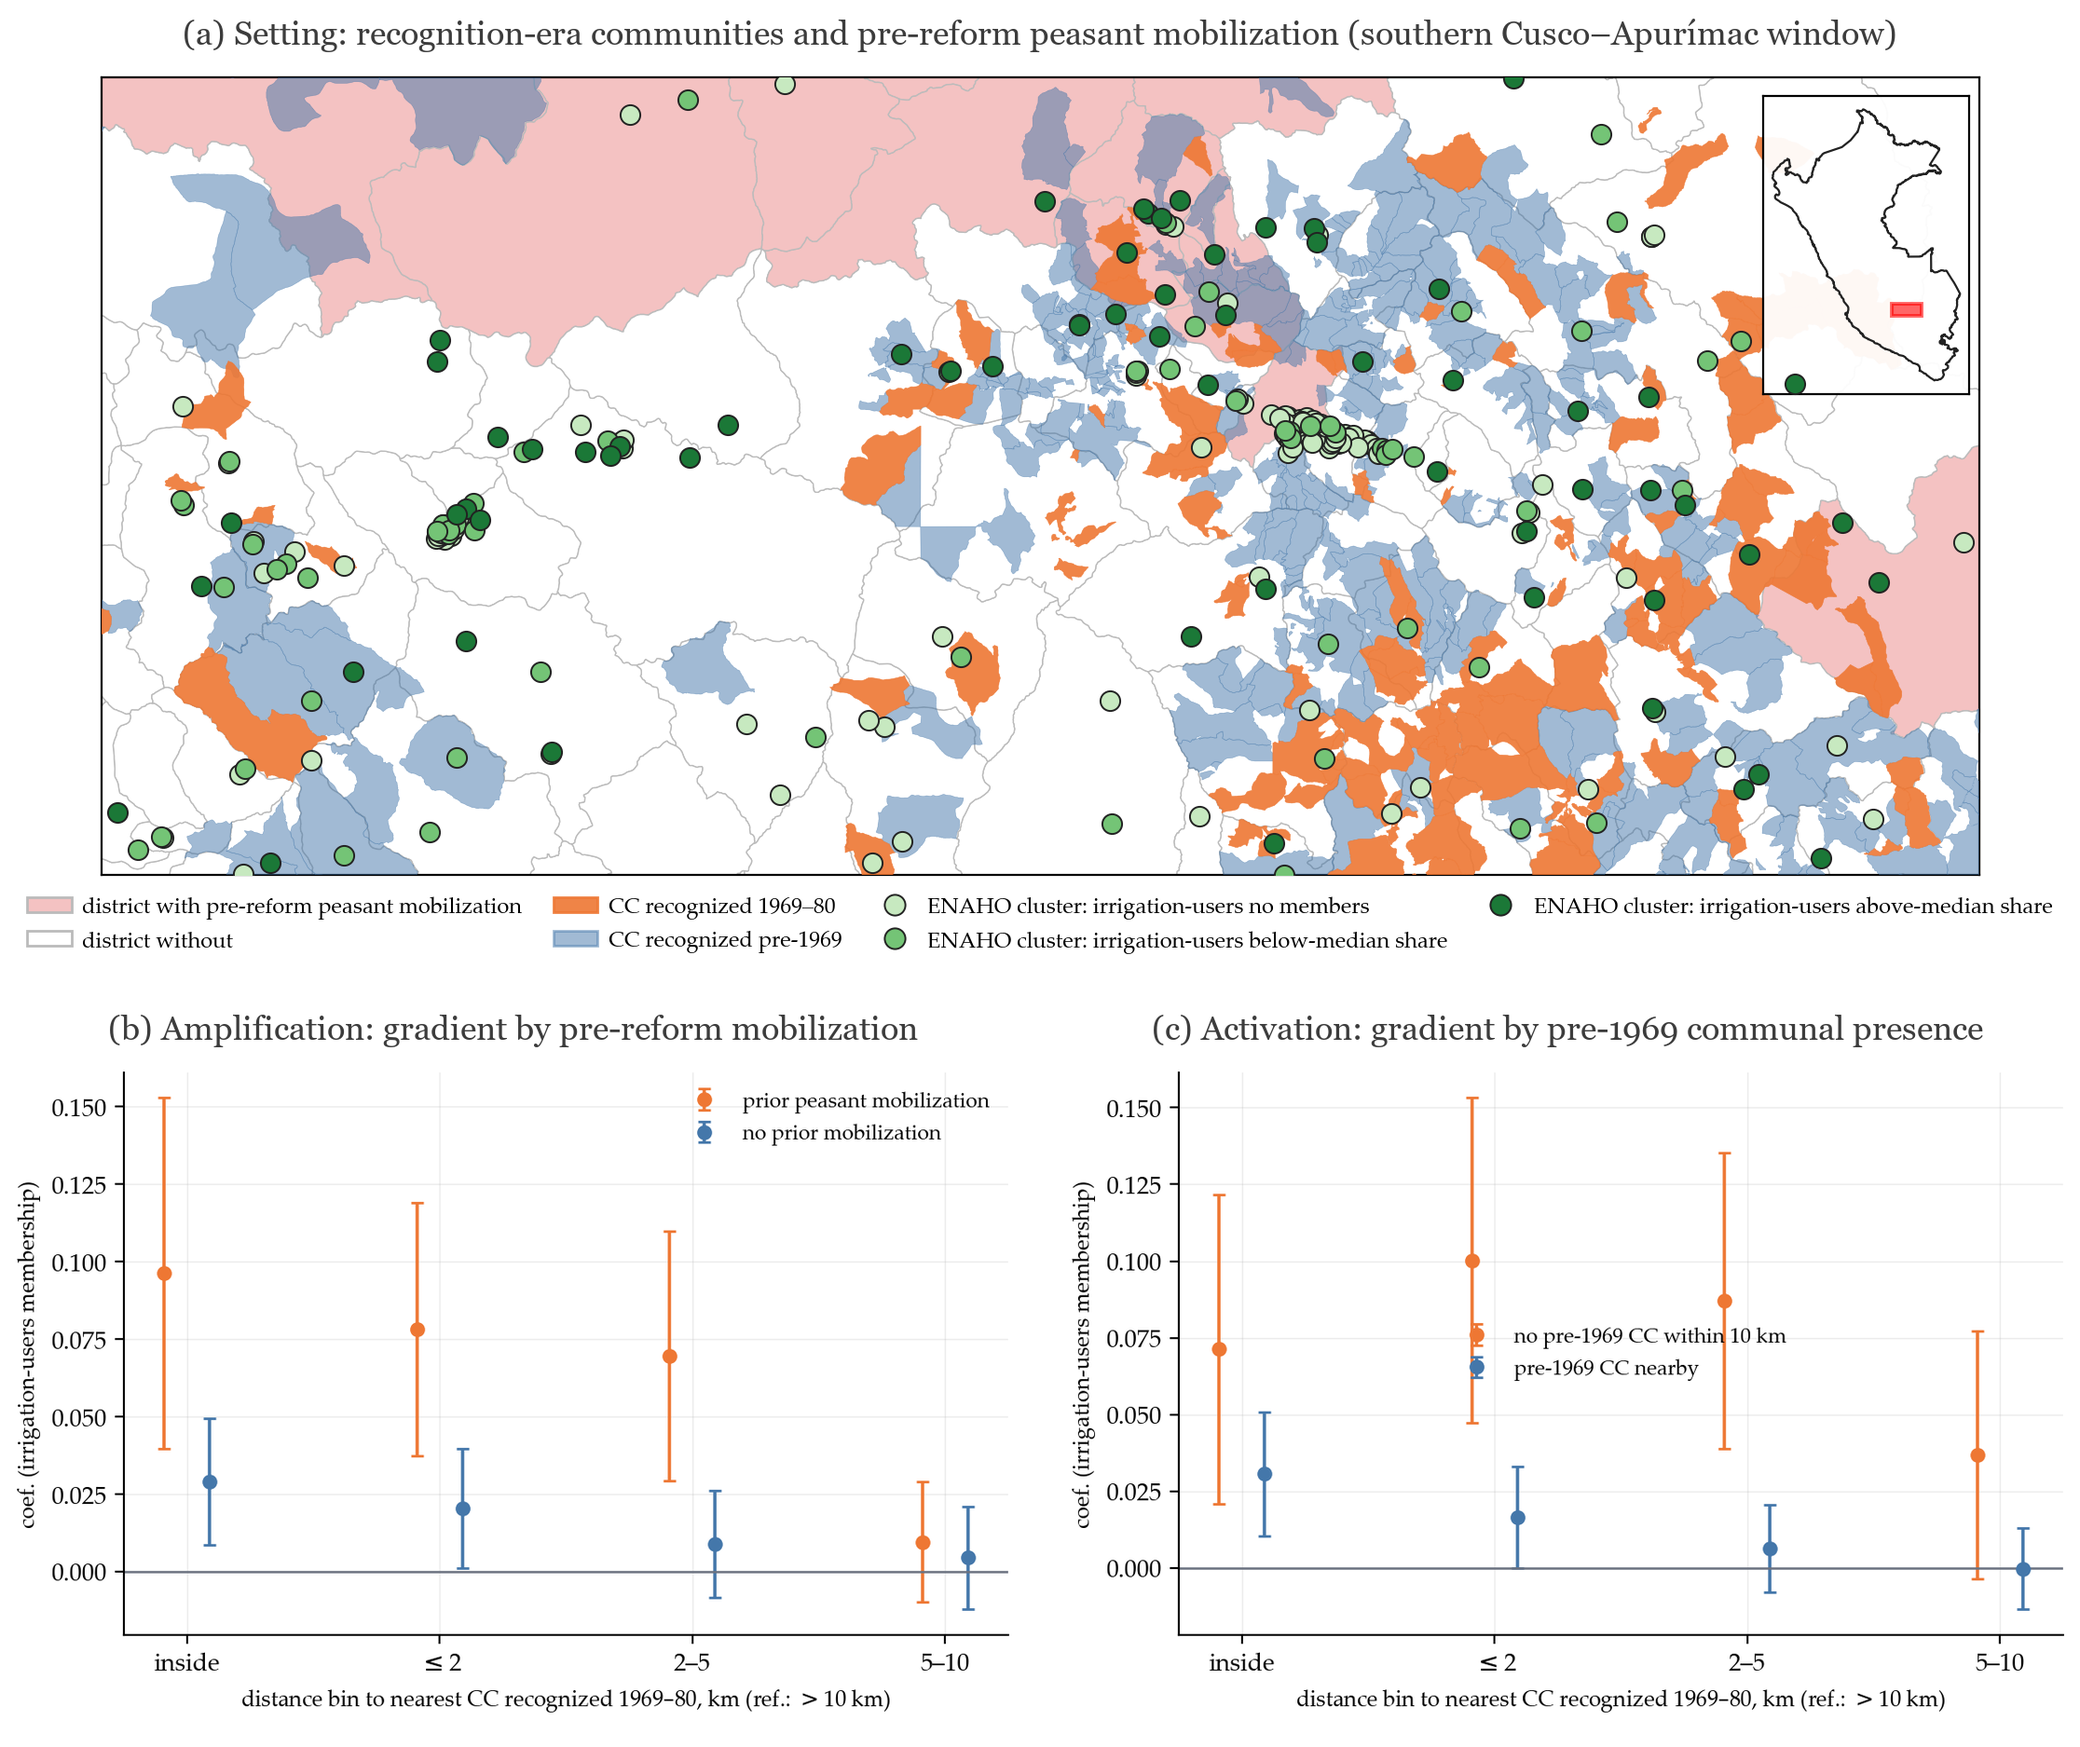
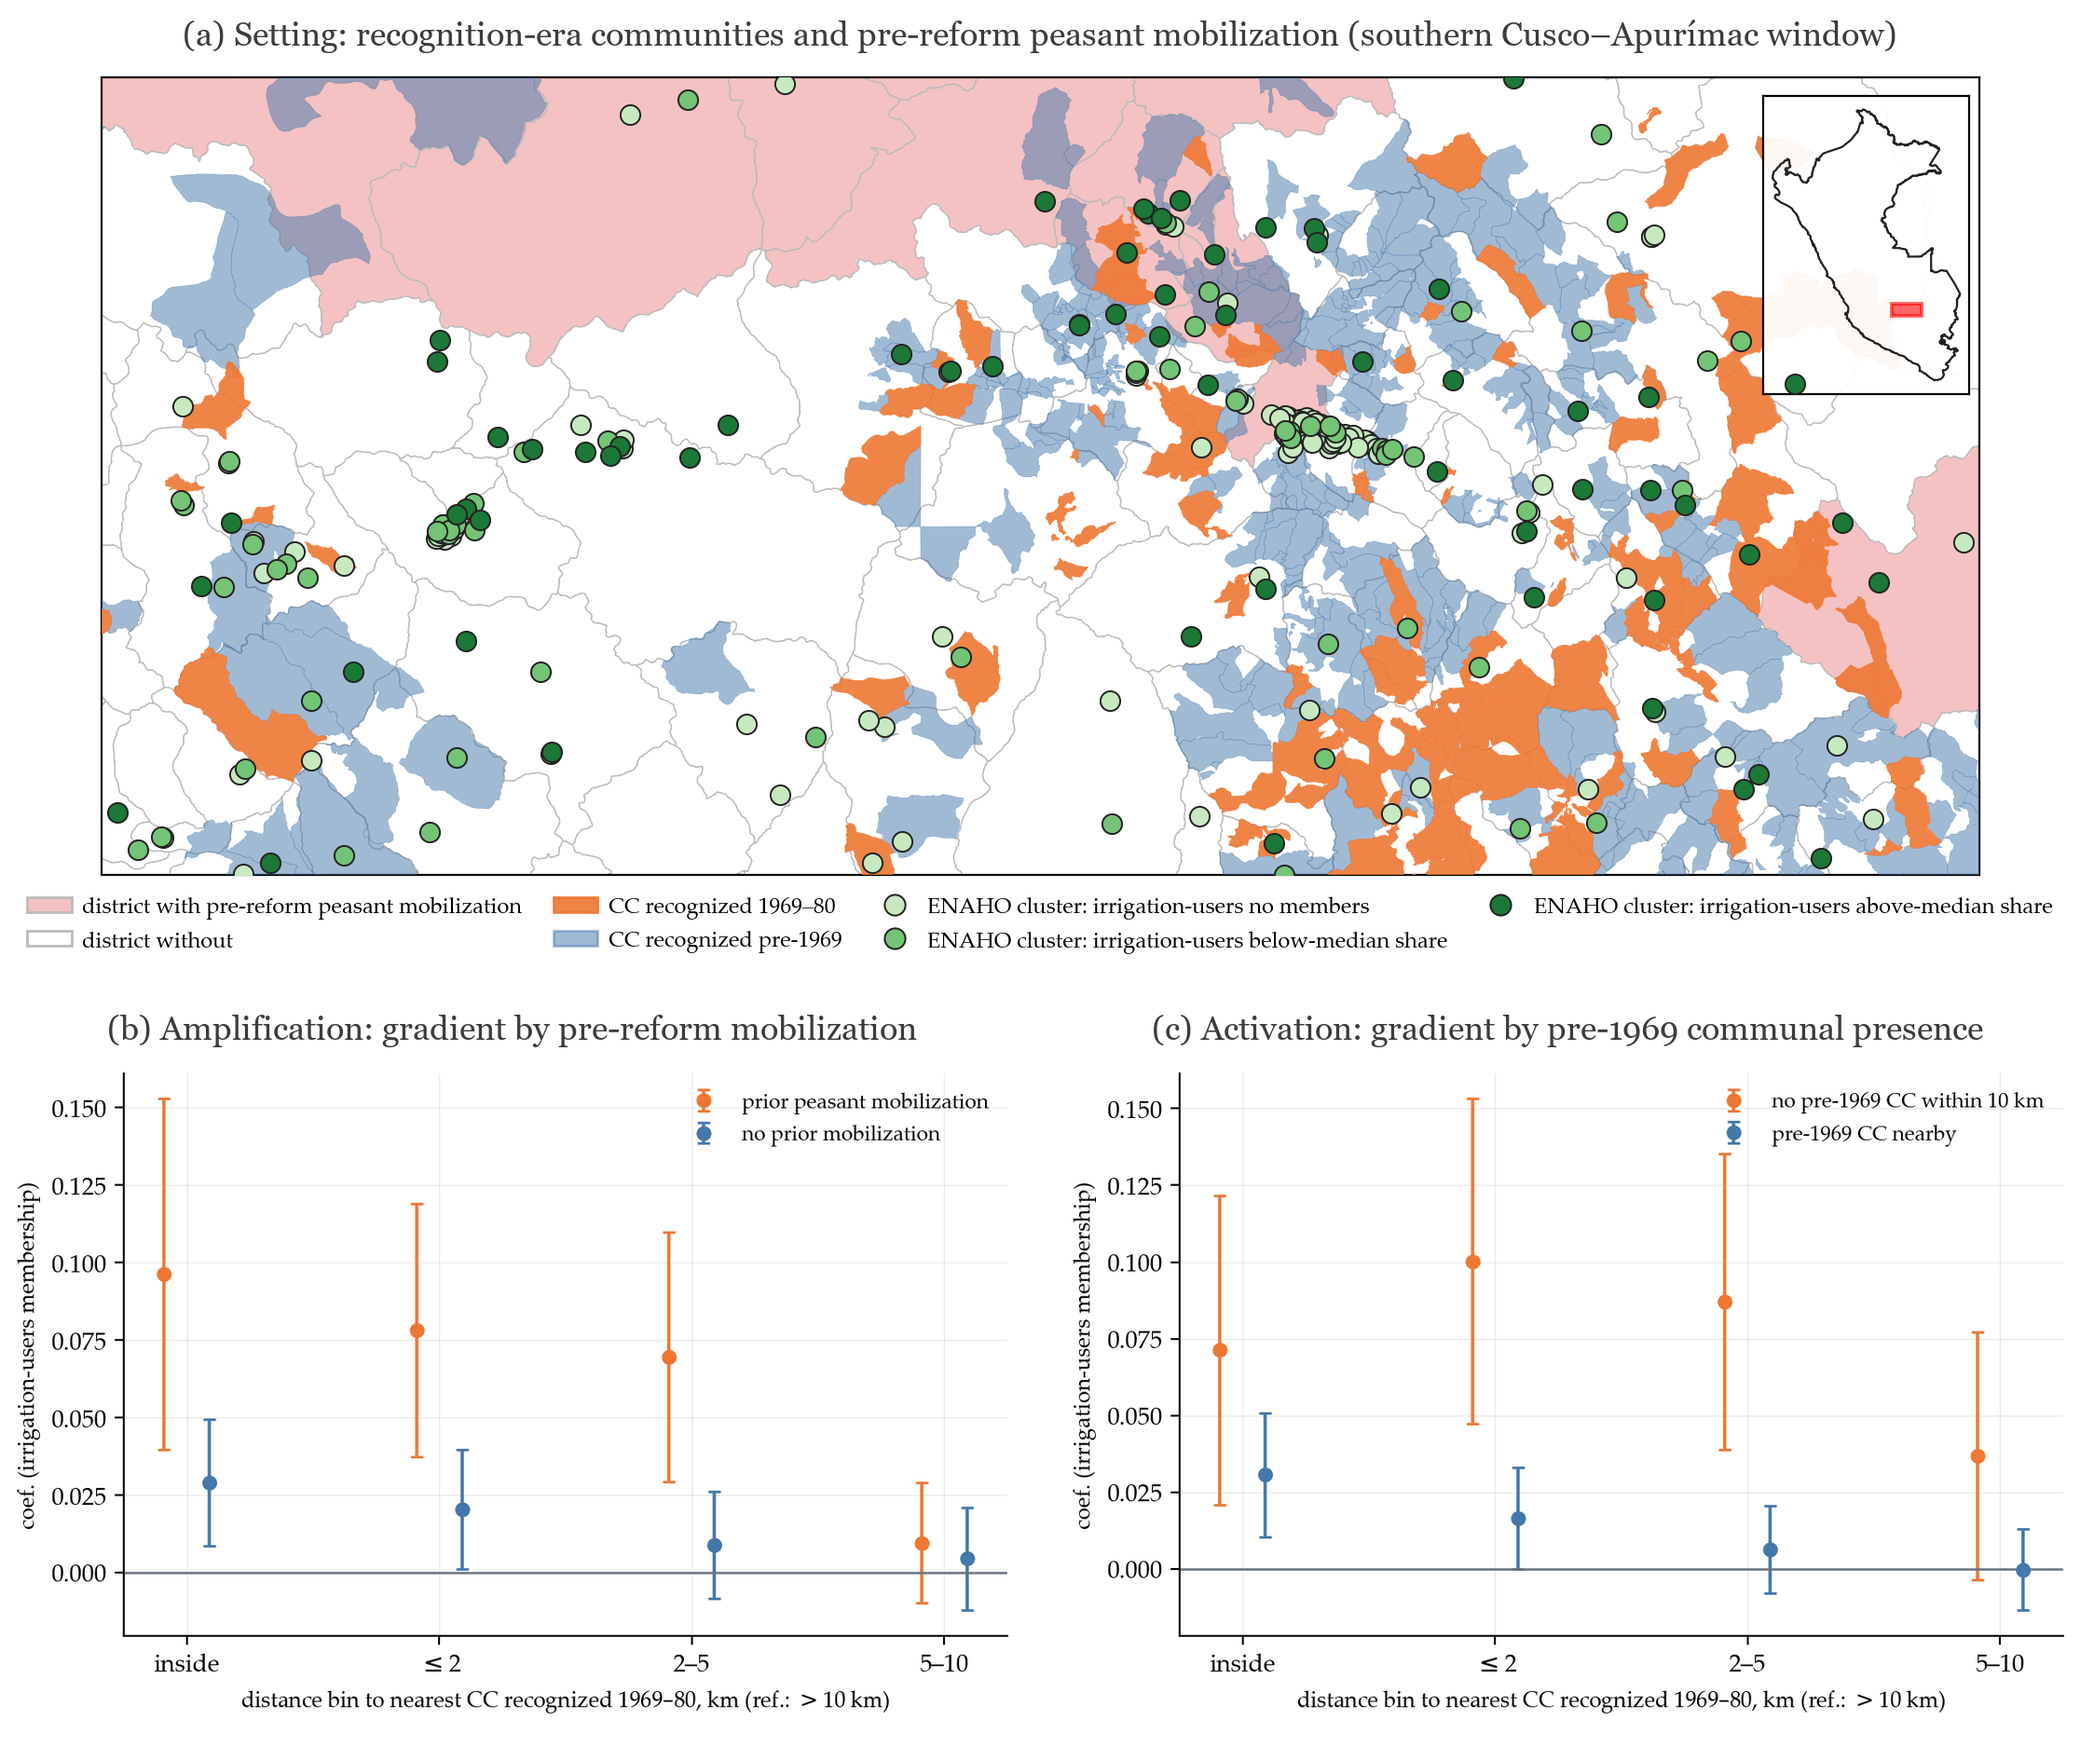
Research: JMP strip figure (organizational legacy composite) rebuilt from the Oct 29 exhibits, panel (c) legend no longer overlaps the plot

diff --git a/research.html b/research.html
@@ -54,7 +54,7 @@
             <figcaption>Indigenous political entry: elected first, candidates late</figcaption>
           </figure>
           <figure>
-            <img src="img/jmp_activation.png" alt="Map of recognition-era communities and pre-reform peasant mobilization in southern Cusco and Apurimac, with distance gradients of irrigation-users membership by prior mobilization and by pre-1969 communal presence" loading="lazy">
+            <img src="img/jmp_activation.png?v=2" alt="Map of recognition-era communities and pre-reform peasant mobilization in southern Cusco and Apurimac, with distance gradients of irrigation-users membership by prior mobilization and by pre-1969 communal presence" loading="lazy">
             <figcaption>Activation vs. amplification: where the organizational footprint bites</figcaption>
           </figure>
         </div>
